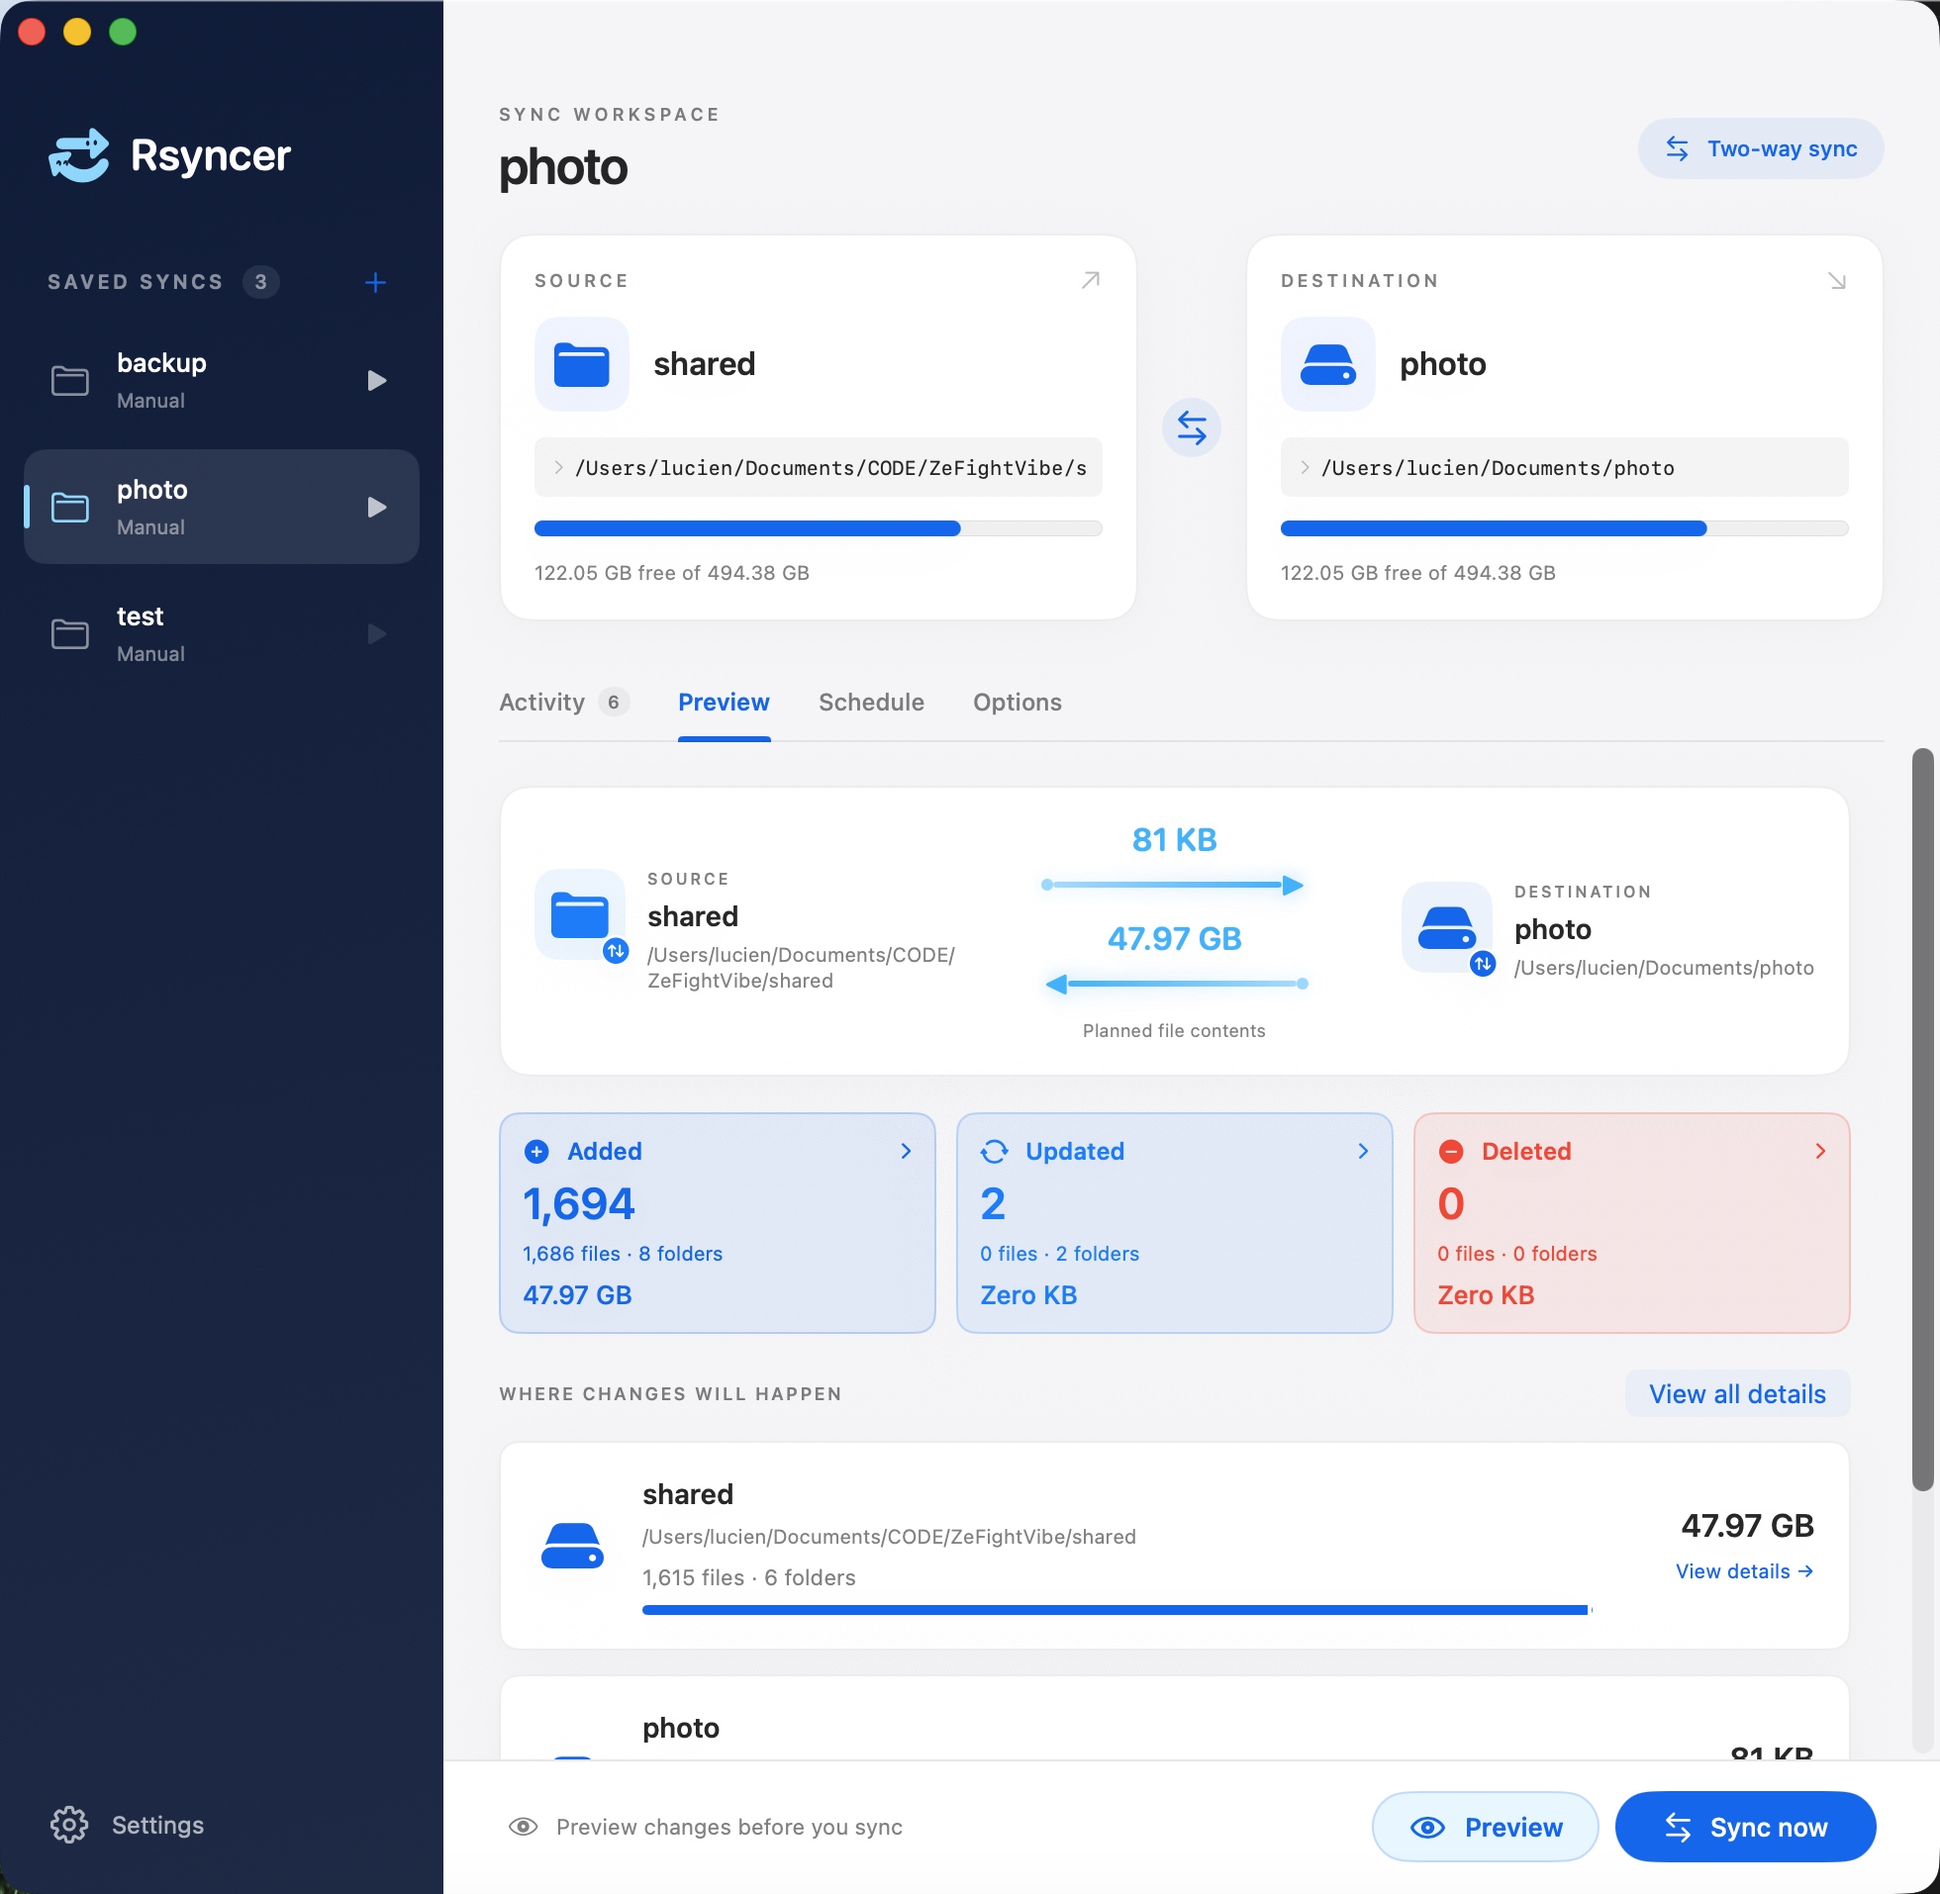
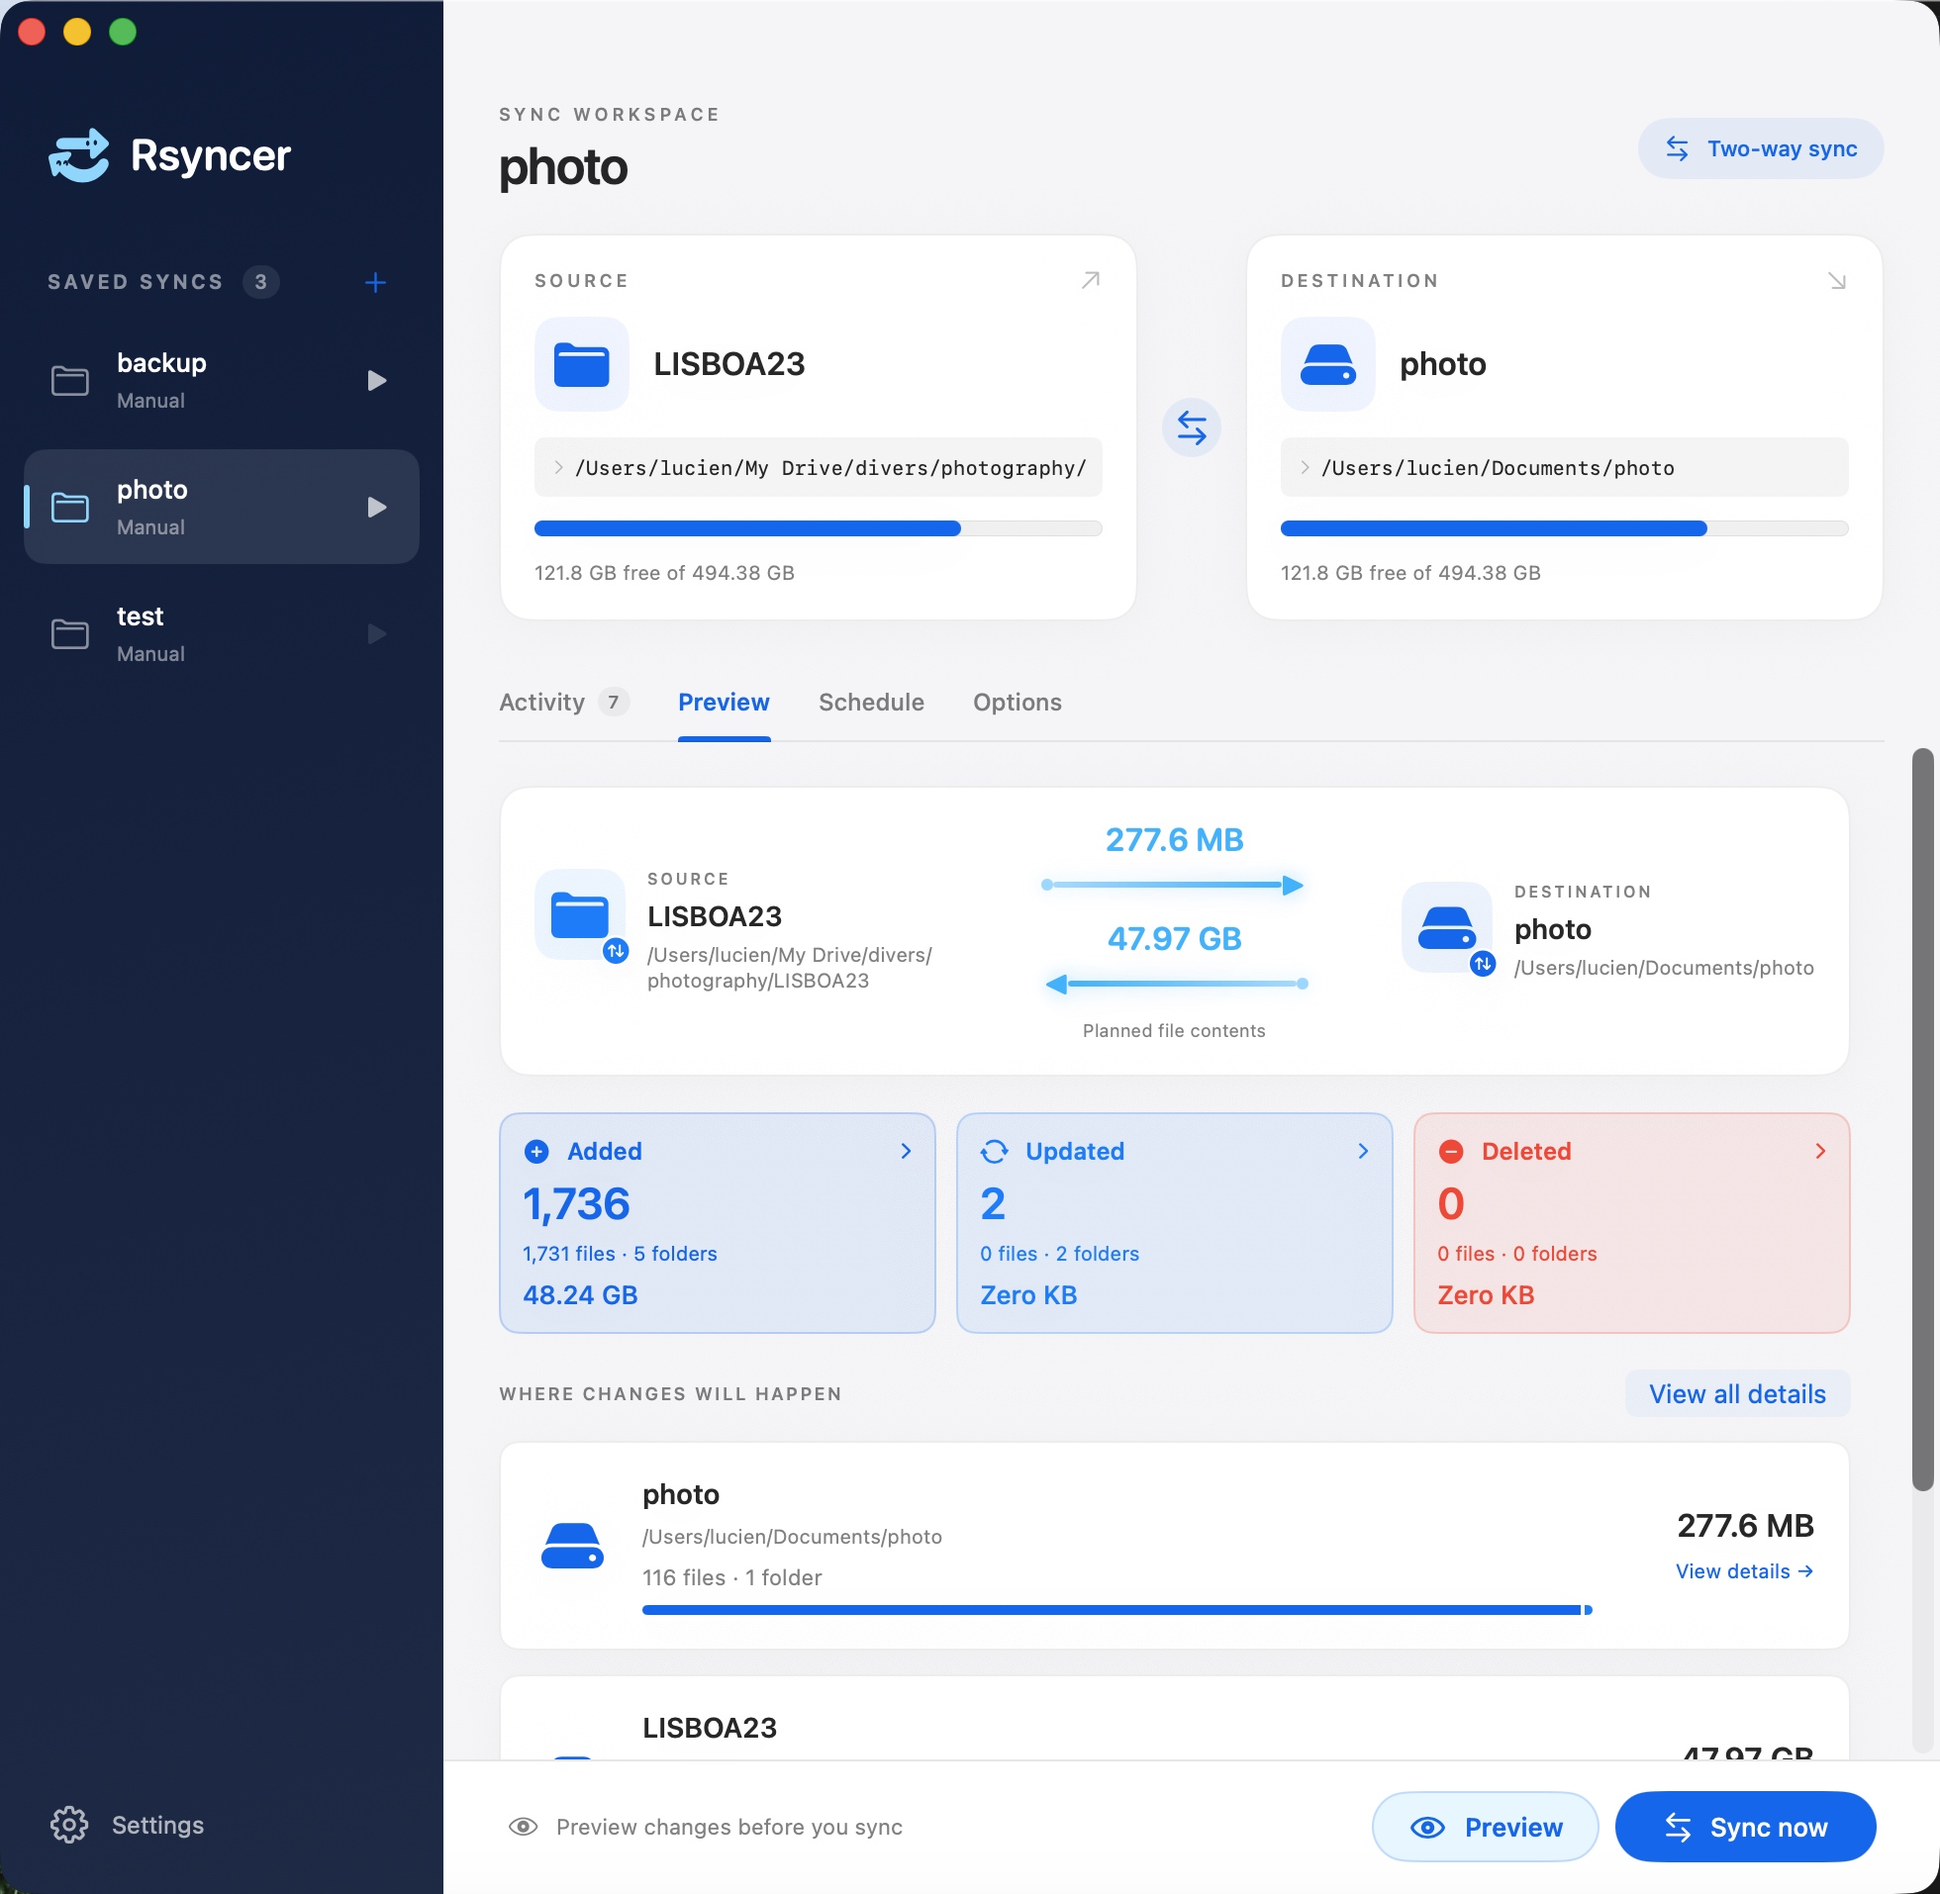
misc

diff --git a/README.md b/README.md
@@ -53,35 +53,3 @@ Settings and logs are stored in:
 ~/Library/Application Support/rsyncer/Manifests/
 ~/Library/Application Support/rsyncer/Logs/
 ```
-
-## Building a DMG
-
-With Xcode installed and selected as the active developer directory, run:
-
-```sh
-./scripts/build-dmg.sh
-```
-
-This builds a Release app for Apple Silicon and Intel Macs and creates `build/Rsyncer-1.2.dmg` (using the app's version number). The disk image contains **Rsyncer.app** and an **Applications** shortcut with large icons, a Retina background, and drag-and-drop instructions. Running the command again replaces the DMG for that version.
-
-Packaging uses Finder to save the installer window layout, so run it in a logged-in macOS desktop session. If macOS asks, allow your terminal to control Finder. The background and layout are defined in `scripts/generate-dmg-background.swift` and `scripts/layout-dmg.applescript`.
-
-Packaging also uses Python 3 (available with Xcode's command-line tools) to finalize the stored icon coordinates and verifies them from the finished, read-only DMG. If Finder shows `.background` or `.fseventsd`, press **Command–Shift–Period** to turn off showing hidden files. Eject older Rsyncer images before opening a rebuilt DMG.
-
-The default build is ad hoc signed for local testing. For public downloads that pass macOS Gatekeeper, use a **Developer ID Application** certificate and Apple notarization, which require Apple Developer Program membership. In Xcode, choose **Product → Archive**, then distribute the archive using **Developer ID**, upload it for notarization, and export the notarized app. Package that export with:
-
-```sh
-./scripts/build-dmg.sh /path/to/export/Rsyncer.app
-```
-
-The script preserves the exported app's signature and notarization ticket. To also sign and notarize the DMG, use your Developer ID identity and a previously configured `notarytool` keychain profile:
-
-```sh
-codesign --timestamp --sign 'Developer ID Application: Your Name (TEAMID)' build/Rsyncer-1.2.dmg
-xcrun notarytool submit build/Rsyncer-1.2.dmg --keychain-profile 'rsyncer-notary' --wait
-# Continue only after the submission status is Accepted.
-xcrun stapler staple build/Rsyncer-1.2.dmg
-xcrun stapler validate build/Rsyncer-1.2.dmg
-```
-
-See Apple's [notarization instructions](https://developer.apple.com/documentation/security/notarizing-macos-software-before-distribution) for certificate and credential setup. Test the downloaded DMG on another Mac before publishing a release.
